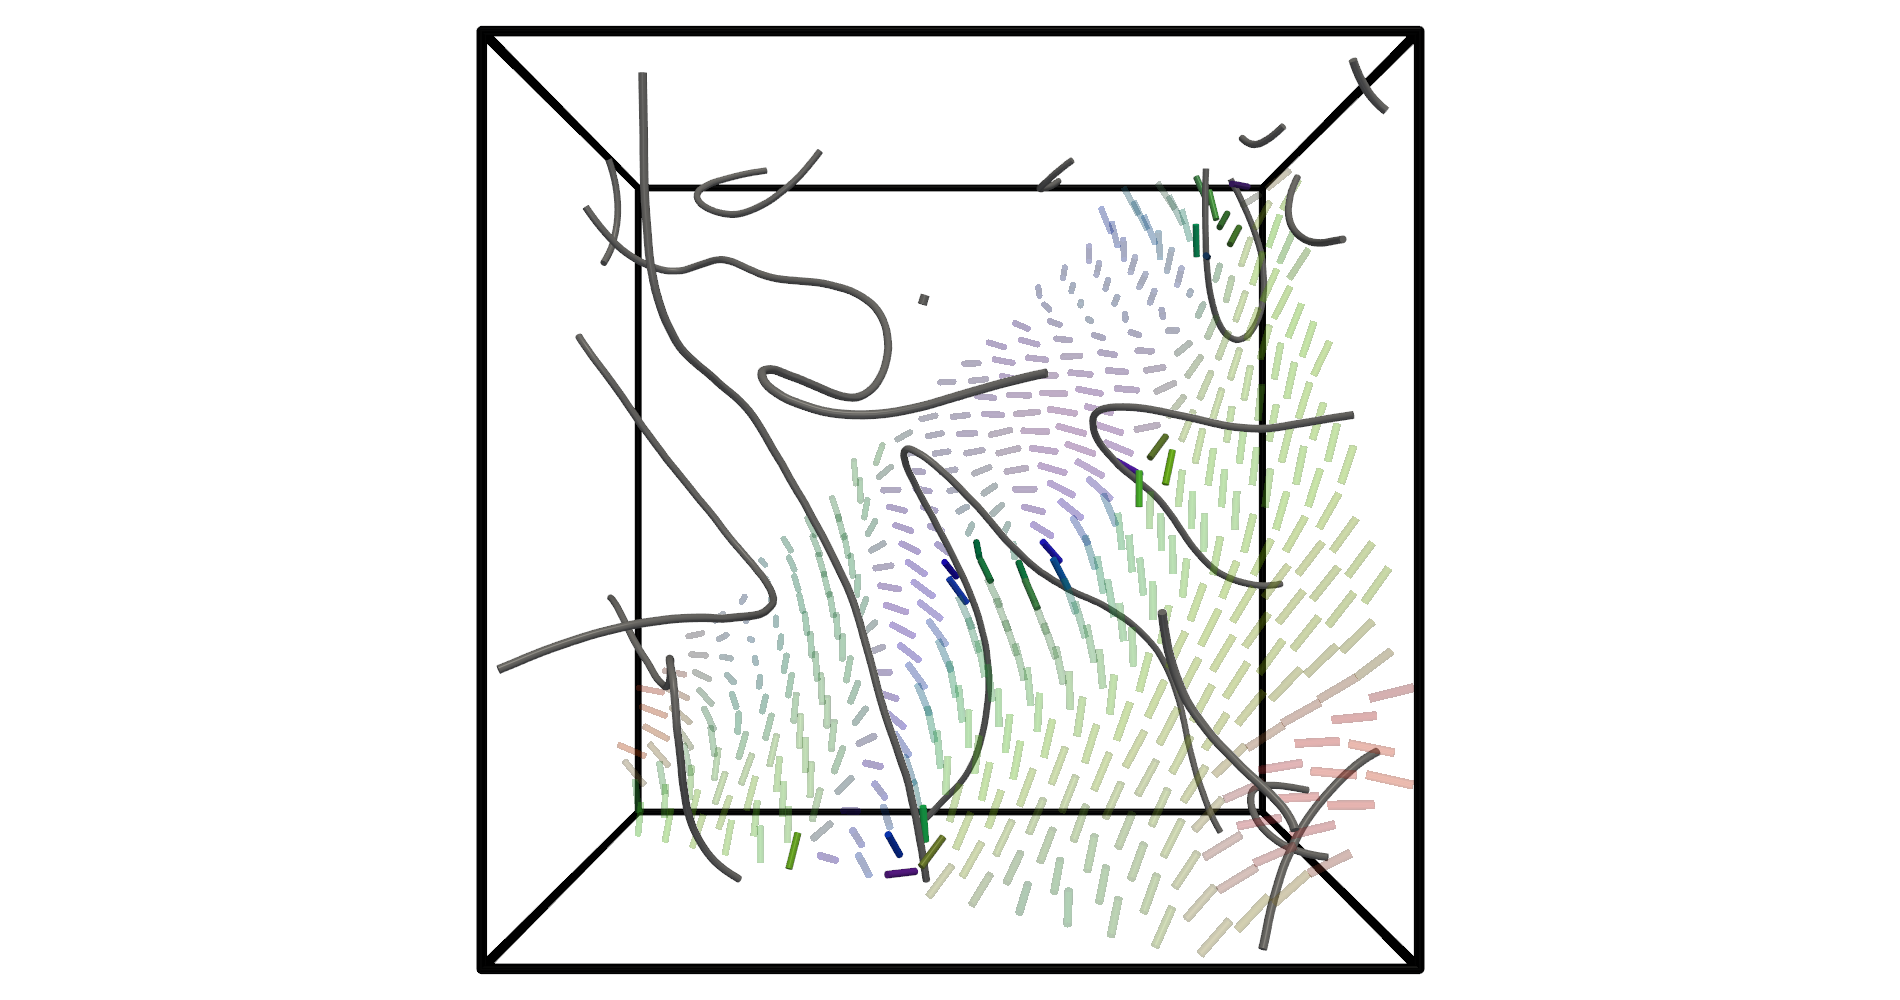
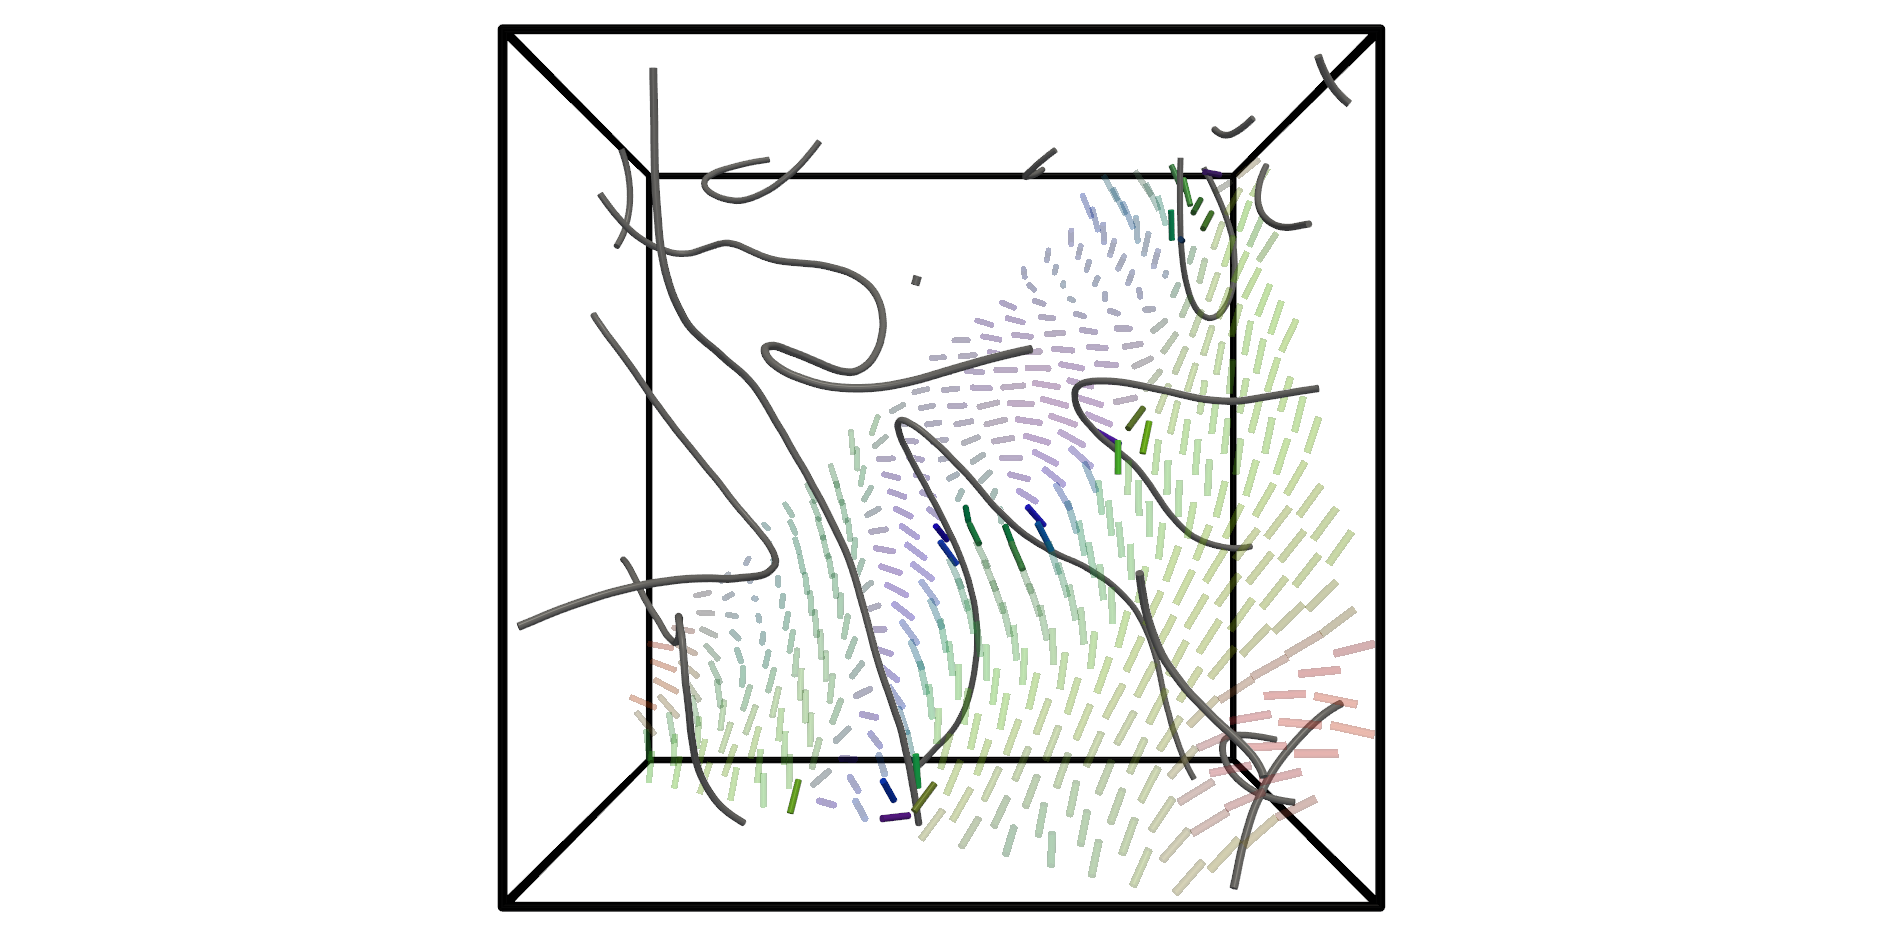
update

Changed region(s): [[0.2465, 0.031, 0.7705, 0.9915], [0.4623, 0.3098, 0.4931, 0.3718], [0.4315, 0.2788, 0.4623, 0.3098]]

diff --git a/src/Nematics3D/classes/disclination_line.py b/src/Nematics3D/classes/disclination_line.py
@@ -1,4 +1,4 @@
-import numpy as np
+import numpy as np
 from dataclasses import dataclass, field, asdict
 from typing import Any, Mapping, ClassVar, Callable
 import weakref
@@ -22,7 +22,7 @@ from ..datatypes import (
     UNSET,
     Unset,
 )
-from ..field import apply_linear_transform, unwrap_trajectory
+from ..field import apply_linear_transform, unwrap_trajectory, wrap_points_to_box
 from .visual.plot_figure import PlotFigure
 from .visual.plot_tube import PlotTube, OptsTube
 from .opts import merge_opts_all, cover_value
@@ -681,6 +681,7 @@ class DisclinationLineSmooth(SmoothedLine):
         self,
         u_percent,
         opts_grid: OptsPlaneGridPolar | None = None,
+        is_wrap: bool | None = None,
         opts_grid_defaults_override: Mapping[str, Any] | None = None,
         **kwargs,
     ):
@@ -1014,6 +1015,8 @@ class OptsDefectSectionGrid(OptsBase):
 
     - `host`: the DefectSectionGrid currently using this opts object, if any.
     - `u_percent`: normalized spline position along the smoothed defect line.
+    - `is_wrap`: whether the resolved section origin should be wrapped into the
+      principal periodic box before building the local polar plane.
 
     Common user actions:
 
@@ -1029,6 +1032,7 @@ class OptsDefectSectionGrid(OptsBase):
     """
 
     u_percent: float | Unset = UNSET
+    is_wrap: bool | Unset = UNSET
 
     __attrs__: ClassVar[Mapping[str, str]] = {
         **OptsBase.__attrs__,
@@ -1036,11 +1040,16 @@ class OptsDefectSectionGrid(OptsBase):
             "Normalized spline parameter percentage along the smoothed defect line. "
             "0 means the start of the spline parameter domain and 100 means the end."
         ),
+        "is_wrap": (
+            "Whether the resolved section origin should be wrapped into the "
+            "principal periodic box before constructing the local polar plane."
+        ),
     }
 
     _validators: ClassVar[Mapping[str, Callable[[Any, str], Any]]] = {
         **OptsBase._validators,
         "u_percent": lambda v, d: as_Number(v, name=d, value_range=(0, 100)),
+        "is_wrap": lambda v, d: as_bool(v, name=d),
     }
 
     _DEFAULTS_FROZEN: ClassVar[Mapping[str, Any]] = MappingProxyType(
@@ -1048,6 +1057,7 @@ class OptsDefectSectionGrid(OptsBase):
             **dict(getattr(OptsBase, "_DEFAULTS_FROZEN", {})),
             "tag": "defect section grid options",
             "u_percent": 50,
+            "is_wrap": False,
         }
     )
 
@@ -1130,6 +1140,7 @@ class DefectSectionGrid(HostBase):
         normals: Mapping[str, Any] | None = None,
         opts: OptsDefectSectionGrid | None = None,
         opts_grid: OptsPlaneGridPolar | None = None,
+        is_wrap: bool | None = None,
         opts_defaults_override: Mapping[str, Any] | None = None,
         opts_grid_defaults_override: Mapping[str, Any] | None = None,
         **kwargs,
@@ -1148,6 +1159,8 @@ class DefectSectionGrid(HostBase):
         }
         if u_percent is not None:
             self_kwargs["u_percent"] = u_percent
+        if is_wrap is not None:
+            self_kwargs["is_wrap"] = is_wrap
 
         super().__init__(
             opts_type=OptsDefectSectionGrid,
@@ -1172,14 +1185,11 @@ class DefectSectionGrid(HostBase):
         )
         object.__setattr__(self, "state_normal", state_normal)
 
-        tangent, origin = line.act_calc_tangent(
-            self.opts.u_percent, is_return_coord=True
-        )
-        normal = self._helper_resolve_normal(tangent)
+        pose = self._helper_resolve_pose()
 
         grid = PlaneGridPolar(
-            normal=normal,
-            origin=origin,
+            normal=pose["normal"],
+            origin=pose["origin"],
             opts=opts_grid,
             opts_defaults_override=opts_grid_defaults_override,
             **kwargs,
@@ -1226,6 +1236,10 @@ class DefectSectionGrid(HostBase):
         tangent, origin = self.owner.act_calc_tangent(
             self.opts.u_percent, is_return_coord=True
         )
+        if self.opts.is_wrap:
+            origin = wrap_points_to_box(
+                origin, self.owner.owner._raw_box_size_periodic_index
+            )
         normal = self._helper_resolve_normal(tangent)
         return {"origin": origin, "normal": normal}
 

diff --git a/src/Nematics3D/classes/Q_field_object.py b/src/Nematics3D/classes/Q_field_object.py
@@ -693,6 +693,9 @@ class QFieldObject(ClassBase):
             Whether smoothed line geometry should be used when available.
         is_extent
             Whether to also draw the bounding extent.
+        is_wrap
+            Whether the selected cross-section origin should be wrapped into
+            the principal periodic box before the local polar grid is built.
         min_line_length
             Minimum defect count required for a line to be plotted. If not
             provided, `self.default_miminum_line_length_visual` is used.
@@ -811,7 +814,7 @@ class QFieldObject(ClassBase):
         opts_defect: OptsSphere | None = None,
         bounds=None,
         title: str = "visualization of n plane",
-        name_plane: str = "n-plane",
+        plane_name: str = "n-plane",
         logger=None,
         **kwargs,
     ):
@@ -853,7 +856,7 @@ class QFieldObject(ClassBase):
             If omitted, the default Q-field bounds are used.
         title
             Title used when a new figure is created.
-        name_plane
+        plane_name
             Name assigned to the generated `QPlane` object.
         **kwargs
             Keyword overrides merged into the option objects using the prefixes
@@ -925,7 +928,7 @@ class QFieldObject(ClassBase):
 
         n_plane = QPlane(
             self.interpolator,
-            name=name_plane,
+            name=plane_name,
             opts=opts_grid,
             bounds=bounds,
             opts_defaults_override={
@@ -964,7 +967,7 @@ class QFieldObject(ClassBase):
         opts_extent: OptsTube | None = None,
         bounds=None,
         title: str = "visualization of S plane",
-        name_plane: str = "S-plane",
+        plane_name: str = "S-plane",
         logger=None,
         **kwargs,
     ):
@@ -998,7 +1001,7 @@ class QFieldObject(ClassBase):
             If omitted, the default Q-field bounds are used.
         title
             Title used when a new figure is created.
-        name_plane
+        plane_name
             Name assigned to the generated `QPlane` object.
         **kwargs
             Keyword overrides merged into the option objects using the prefixes
@@ -1054,7 +1057,7 @@ class QFieldObject(ClassBase):
 
         S_plane = QPlane(
             self.interpolator,
-            name=name_plane,
+            name=plane_name,
             opts=opts_grid,
             bounds=bounds,
             opts_defaults_override={
@@ -1081,11 +1084,12 @@ class QFieldObject(ClassBase):
     @logging_and_warning_decorator()
     def act_visualize_n_near_defect(
         self,
-        x_param: float,
+        u_percent: float,
         smooth: DisclinationLineSmooth,
         figure: PlotFigure | BackgroundPlotter | pv.Plotter | str | int | None = None,
         is_new: bool = False,
         is_extent: bool = False,
+        is_wrap: bool = True,
         opts_grid: OptsPlaneGridPolar | None = None,
         opts_n: OptsRod | None = None,
         opts_nb: OptsRod | None = None,
@@ -1108,7 +1112,7 @@ class QFieldObject(ClassBase):
 
         Parameters
         ----------
-        x_param
+        u_percent
             Parametric position along the smoothed disclination line used to
             choose the cross-section.
         smooth
@@ -1211,10 +1215,11 @@ class QFieldObject(ClassBase):
             self.act_add_interpolator()
 
         section = smooth.act_cross_section(
-            x_param,
+            u_percent,
             opts_grid=opts_grid,
             name=plane_name,
             bounds=bounds,
+            is_wrap=is_wrap,
         )
         plane_grid = section.wrapped
         n_plane_name = section.name + " of " + smooth.name

diff --git a/src/Nematics3D/field.py b/src/Nematics3D/field.py
@@ -480,6 +480,47 @@ def generate_mirror_point_periodic_boundary(
     return mirror_points
 
 
+def wrap_points_to_box(
+    points: Union[np.ndarray, Sequence[Sequence[float]], Sequence[float]],
+    box_size_periodic: DimensionPeriodicInput = np.inf,
+) -> np.ndarray:
+    """
+    Wrap one point or an array of points into the principal periodic box.
+
+    Parameters
+    ----------
+    points : array-like of shape (..., 3)
+        Index-space coordinates to wrap. The last axis must represent the
+        three spatial coordinates.
+
+    box_size_periodic : DimensionPeriodicInput, optional
+        Periodic box size along each axis. Finite values indicate periodic
+        dimensions, while `np.inf` leaves the corresponding coordinate
+        unchanged.
+
+    Returns
+    -------
+    np.ndarray
+        Wrapped coordinates with the same shape as the input. Periodic
+        dimensions are mapped into `[0, L)`, while non-periodic dimensions are
+        returned unchanged.
+    """
+    box_size_periodic = as_dimension_info(box_size_periodic)
+    points = np.asarray(points, dtype=float)
+
+    if points.shape[-1] != 3:
+        raise ValueError(
+            "`points` must have shape (..., 3) so the last axis stores x, y, z coordinates."
+        )
+
+    wrapped = points.copy()
+    mask_periodic = np.isfinite(box_size_periodic)
+    wrapped[..., mask_periodic] = np.mod(
+        wrapped[..., mask_periodic], box_size_periodic[mask_periodic]
+    )
+    return wrapped
+
+
 def shift_to_box(points_unwrap, box_size_periodic, ref_index=10):
     """
     Shift the entire trajectory so that the first point is inside the periodic box.

diff --git a/example/example_informative_near_defect.py b/example/example_informative_near_defect.py
@@ -15,11 +15,10 @@ S = np.load(DATA_DIR / "S_example_global.npy")
 Q = Nematics3D.QFieldObject(S=S, n=n, box_periodic_flag=True, name="testQ")
 Q.act_lines_smooth()
 
-bounds_max = 60
+bounds_max = 20
 bounds = Nematics3D.as_bounds((0, bounds_max, 0, bounds_max, 0, bounds_max))
 figure = Nematics3D.PlotFigure(
-    name="lines and directors",
-    # is_off_screen=True,
+    name="near-defect director field",
 )
 
 Q.act_visualize_disclination_lines(
@@ -29,24 +28,19 @@ Q.act_visualize_disclination_lines(
     line_radius=0.3,
 )
 
-spacing = 3
-trans = 6
-
-Q.act_visualize_n_plane(
+smooth0 = Q.lines[0].smooth
+Q.act_visualize_n_near_defect(
+    u_percent=0.3,
+    smooth=smooth0,
     figure=figure,
     bounds=bounds,
     is_extent=False,
-    grid_normal=(1, 1, 1),
-    grid_origin=(
-        bounds_max / 2 - trans,
-        bounds_max / 2 - trans,
-        bounds_max / 2 - trans,
-    ),
-    grid_size=100,
-    grid_spacing=spacing,
-    n_length=spacing,
 )
 
-figure.act_commit(elevation=0, azimuth=90, distance=150)
+figure.act_commit(
+    elevation=0,
+    azimuth=90,
+    distance=70,
+)
 
-figure.act_savefig("../docs/example/informative/2.png")
+figure.act_savefig("docs/example/informative/3.png")

diff --git a/src/Nematics3D/classes/visual/plot_tube.py b/src/Nematics3D/classes/visual/plot_tube.py
@@ -686,14 +686,15 @@ class PlotTube(PlotGlyph):
     def _helper_resolve_pick(self, picked_point):
 
         pos_close, msg, idx = super()._helper_resolve_pick(picked_point)
-        x_param = idx / len(self.raw_coords) * 100
+        u_percent = idx / len(self.raw_coords) * 100
         msg_head = (
             f"The closest point on the tube is {fmt_value(pos_close)}, where: \n"
-            f"The normalized position along the tube is {x_param:2f} \n"
+            f"The normalized position along the tube is {u_percent:.3f} \n"
         )
+        print(pos_close, self.wrapper.owner.act_calc_tangent(u_percent, is_return_coord=True)[1])
         try:
-            smooth = self.owner.owner
-            tgt = smooth.act_calc_tgt(x_param)
+            smooth = self.wrapper.owner
+            tgt = smooth.act_calc_tangent(u_percent)
             msg_head += f"Local tangent: {fmt_value(tgt)} \n"
         except:
             pass

diff --git a/README.md b/README.md
@@ -65,6 +65,8 @@ During execution, you will see progress and info messages in the terminal. These
 
 The visualization opens in an interactive 3D figure window. The example above shows one typical view of that window after the disclination lines have been rendered.
 
+In this quick-start example, the disclination lines use the default coloring. Different lines are assigned different colors, and the palette is chosen to keep the lines visually distinct from one another.
+
 ## More Informative Examples
 
 ### Example 1: Lines and a Tilted Director Plane
@@ -123,6 +125,60 @@ With the default settings, directors near defects are highlighted by being fully
 
 During detailed tuning, you may sometimes see opaque directors without a visible disclination line. This is usually caused by visualization choices rather than by an inconsistency in the data, for example the minimum line length chosen for plotting or the smoothing settings used for the line. We explain these details in the corresponding function-level documentation.
 
+In this example, the director field also uses its default coloring. The rods are colored according to their orientation, which helps reveal directional variation across the plane.
+
 One example output is shown below:
 
 ![Informative example result](docs/example/informative/2.png)
+
+### Example 2: Director Field Near One Defect Line
+
+The next example zooms into a smaller `0` to `20` box, plots the disclination lines in that region, and then visualizes the director field near the smoothed version of line `0` at `u_percent=0.3`. The full script is available as [`example/example_informative_near_defect.py`](/D:/Document/GitHub/Nematics3D/example/example_informative_near_defect.py).
+
+```python
+import numpy as np
+import Nematics3D
+
+n = np.load("example/data/n_example_global.npy")
+S = np.load("example/data/S_example_global.npy")
+
+Q = Nematics3D.QFieldObject(S=S, n=n, box_periodic_flag=True, name="testQ")
+Q.act_lines_smooth()  # smooth the detected disclination lines
+
+bounds_max = 20
+bounds = Nematics3D.as_bounds((0, bounds_max, 0, bounds_max, 0, bounds_max))  # focus on a smaller local region
+figure = Nematics3D.PlotFigure(
+    name="near-defect director field",
+    is_off_screen=True,
+)  # create an off-screen figure for direct saving
+
+Q.act_visualize_disclination_lines(
+    figure=figure,
+    bounds=bounds,
+    line_color=(0.5, 0.5, 0.5),
+    line_radius=0.3,
+)  # draw the disclination lines inside the selected box
+
+smooth0 = Q.lines[0].smooth  # use the smoothed version of disclination line 0
+Q.act_visualize_n_near_defect(
+    u_percent=0.3,  # choose the position along the smoothed line
+    smooth=smooth0,
+    figure=figure,
+    bounds=bounds,
+    is_extent=False,  # do not draw another bounding box for this layer
+)  # visualize the director field near that defect
+
+figure.act_commit(
+    elevation=0,
+    azimuth=90,
+    distance=70,
+)  # adjust the camera for a clearer view
+
+figure.act_savefig("docs/example/informative/3.png")  # save the rendered figure
+```
+
+This example focuses on one local neighborhood of a smoothed disclination line and shows the director field on a polar cross-section centered on that defect. It is useful when you want to inspect the local structure around one selected line instead of viewing the whole system at once.
+
+One example output can be placed here after it is generated:
+
+![Near-defect example result](docs/example/informative/3.png)
